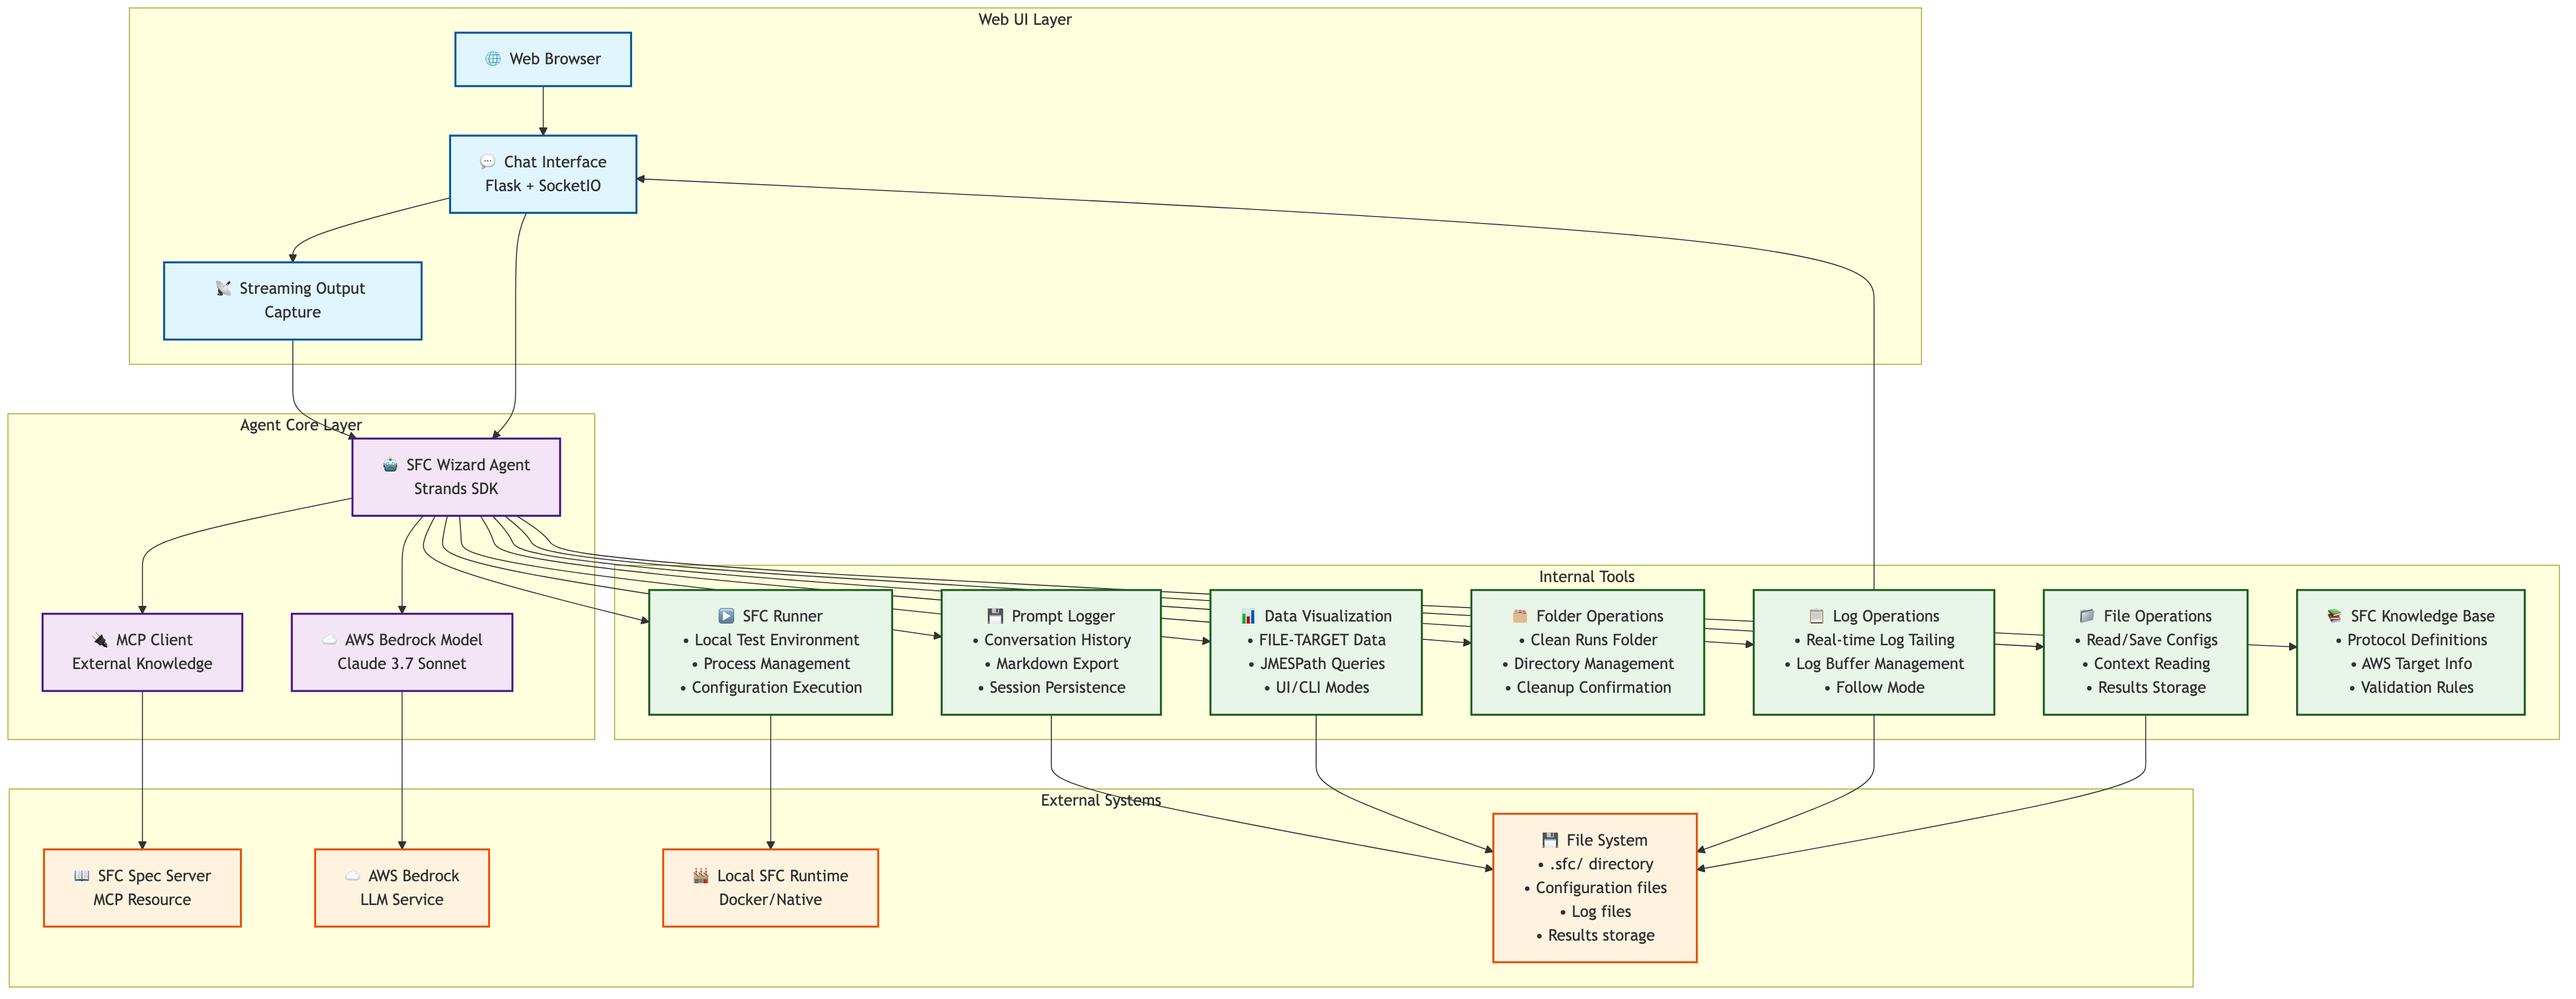
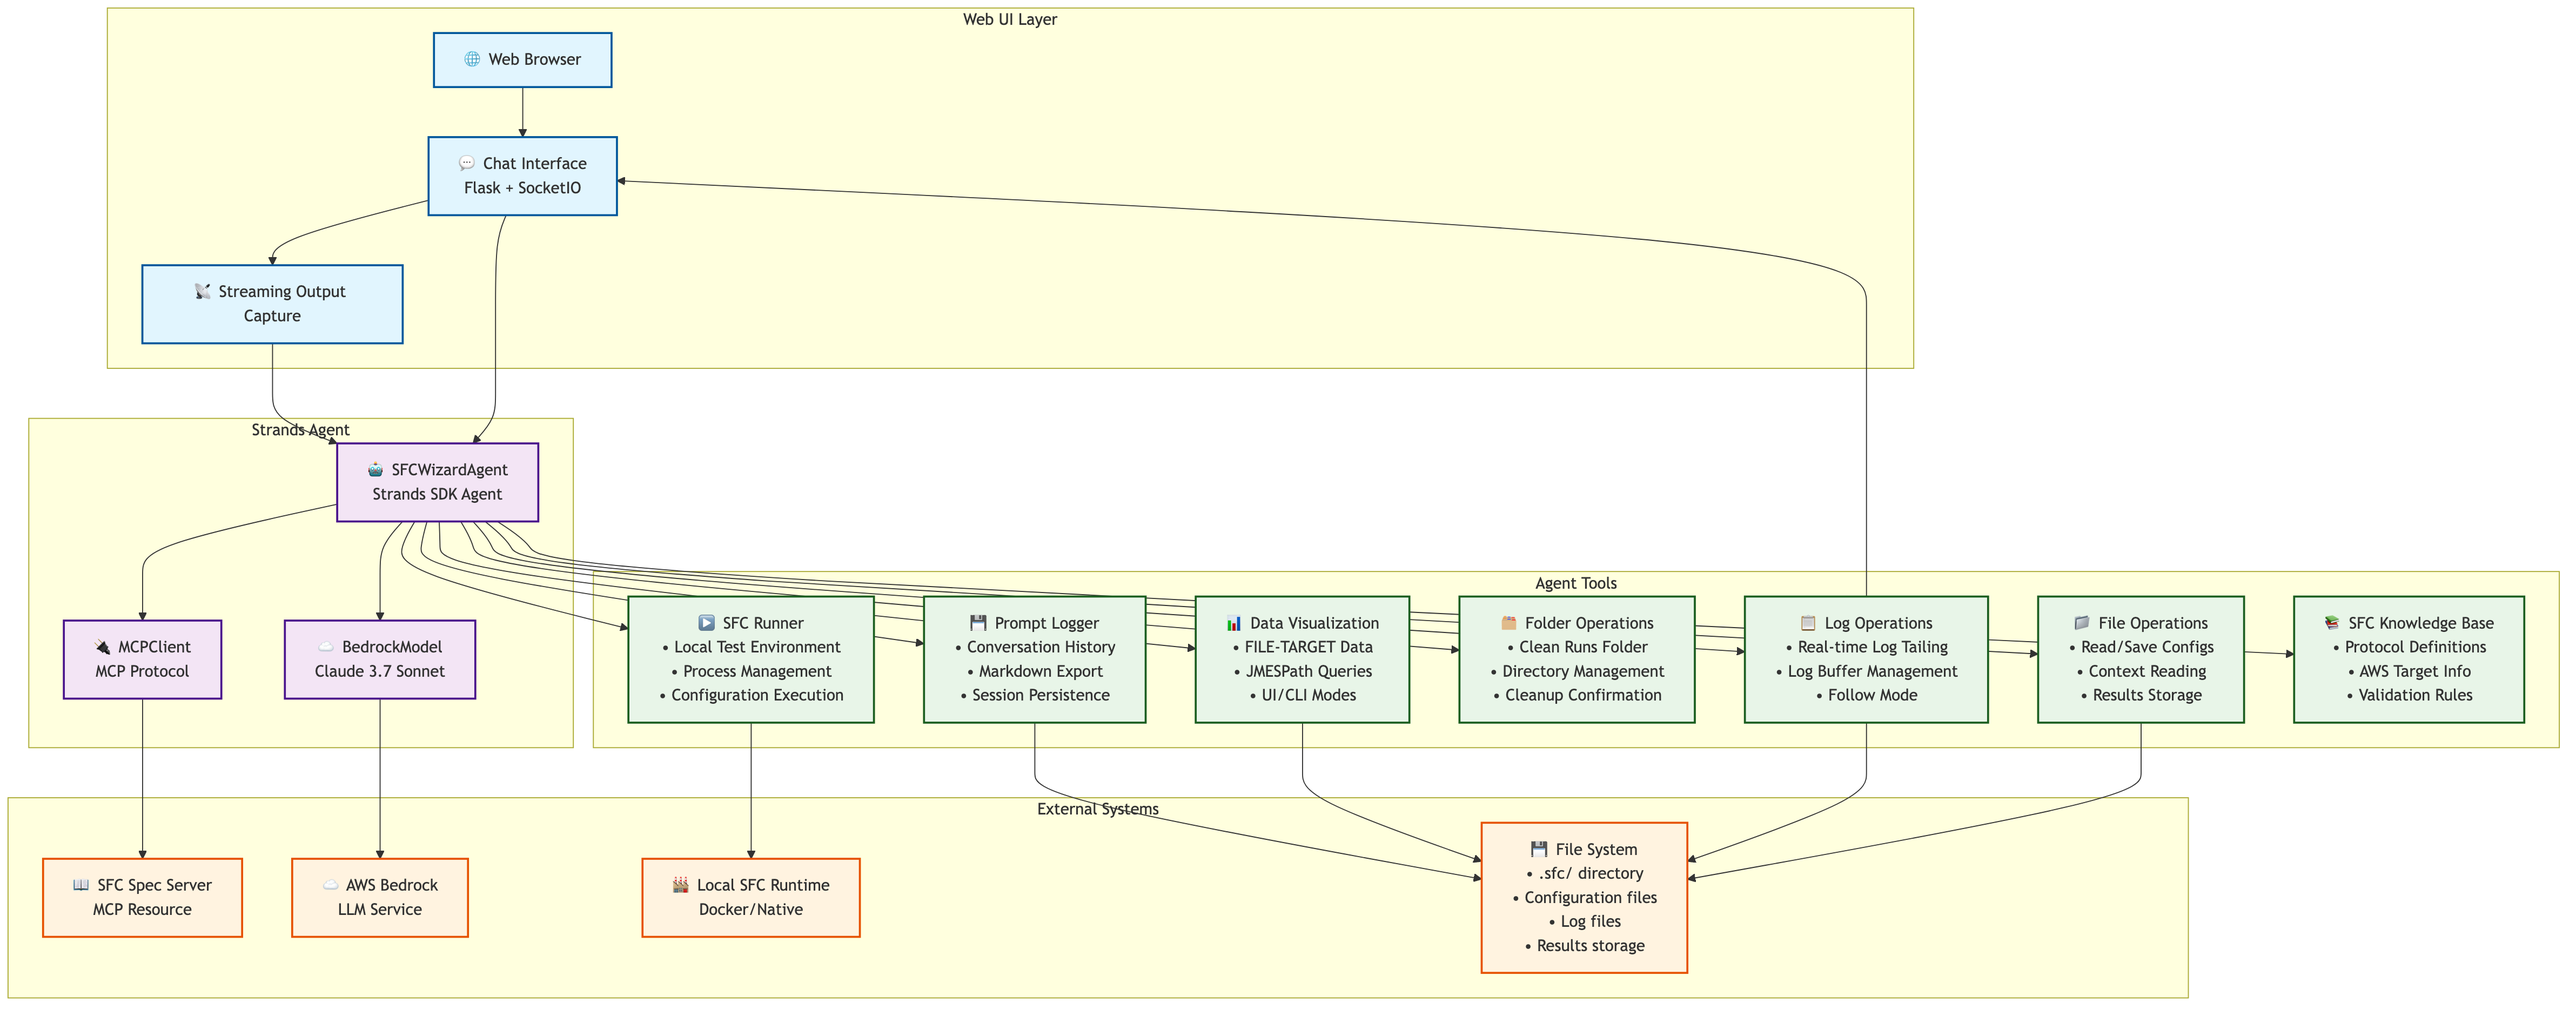
feat: adjustments

diff --git a/ARCHITECTURE_DIAGRAM.md b/ARCHITECTURE_DIAGRAM.md
@@ -9,12 +9,12 @@
 - **Chat Interface**: Flask + SocketIO web server providing real-time chat
 - **Streaming Output Capture**: Captures and streams stdout/stderr in real-time
 
-### 🤖 **Agent Core Layer**
-- **SFC Wizard Agent**: Main AI agent built with Strands SDK
-- **AWS Bedrock Model**: Claude 3.7 Sonnet LLM for natural language processing
-- **MCP Client**: Model Context Protocol client for external knowledge access
+### 🤖 **Strands Agent**
+- **SFCWizardAgent**: Main AI agent class built with Strands SDK
+- **BedrockModel**: Claude 3.7 Sonnet LLM integration for natural language processing
+- **MCPClient**: Model Context Protocol client for external knowledge access
 
-### 🛠 **Internal Tools**
+### 🛠 **Agent Tools**
 1. **File Operations**: Configuration and file management
 2. **SFC Runner**: Local test environment execution
 3. **Log Operations**: Real-time log monitoring and tailing
